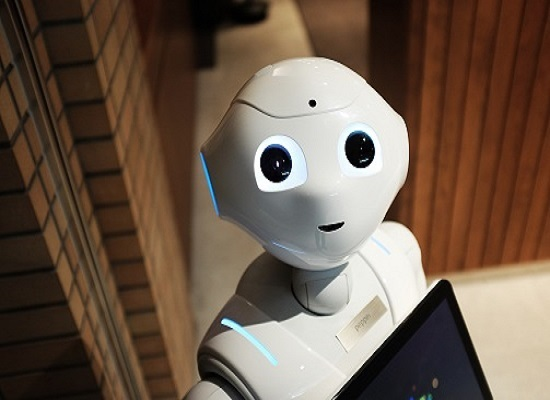
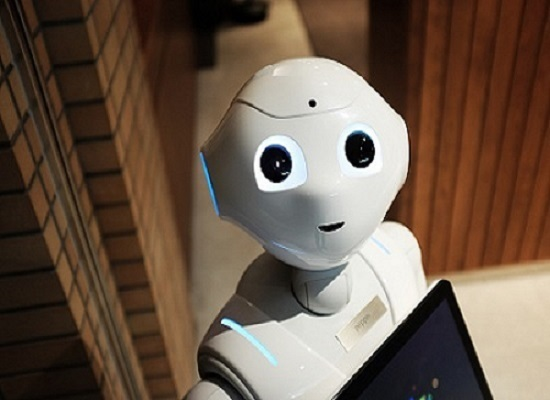
In this section, I predominantly focused on selecting new images and changing their sizes. After changing their sizes, I worked on the machine learning page, creating a basic bootstrap grid column to add relevant images later on
In this section, I predominantly focused on selecting new images and changing their sizes. After changing their sizes, I worked on the machine learning page, creating a basic bootstrap grid column to add relevant images later on

diff --git a/machineLearning.html b/machineLearning.html
@@ -21,7 +21,6 @@
 
 <body>
     <header id="machine-header-section">
-        <!--        <div class="hero-overlay"></div>-->
         <div class="container-fluid">
             <nav class="navbar navbar-expand-lg navbar-dark">
                 <a class="navbar-brand" href="index.html"><img src="./assets/Images/logo-design2.png" alt="Logo Design"></a>
@@ -50,12 +49,12 @@
 
 
         <div class="wrapper">
-            <div class="index-title">
-                <h1>DATA <span class="text-highlight">SCIENCE</span></h1>
+            <div class="machine-title header-styling">
+                <h1>MACHINE <span class="text-highlight">LEARNING</span></h1>
             </div>
 
             <div class="index-sub-title">
-                <h3>Data Scientist: The Sexiest Job of the 21st Century. <br> Thomas H. Davenport and D.J. Patil, 2012.</h3>
+                <h3>Machine Learning: The Scientific Study of Algorithms and Statistical Models</h3>
             </div>
 
             <div class="down-arrow-icon">
@@ -65,6 +64,120 @@
         </div>
 
     </header>
+
+    <div class="container" style="margin:40px;">
+        <div class="row">
+            <div class="col-md-6 col-sm-6" style="background-color:gray; padding:20px;">
+                <p>
+                    Envelope icon as a link:
+                    <a href="#"><span class="glyphicon glyphicon-envelope"></span></a>
+                </p>
+            </div>
+            <div class="col-md-6 col-sm-6" style="background-color:lightblue; padding:20px;">
+                <p>Search icon: <span class="glyphicon glyphicon-search"></span></p>
+            </div>
+        </div>
+        <!--
+            <div class="col-md-4 col-sm-6" style="background-color:lightpink; padding:20px;">
+                <p>
+                    Search icon on a button:
+                    <button type="button" class="btn btn-default">
+                        <span class="glyphicon glyphicon-search"></span> Search
+                    </button>
+                </p>
+            </div>
+-->
+        <div class="row">
+            <div class="col-md-12 col-sm-12" style="background-color:cyan; padding:20px;">
+                <p>
+                    Search icon on a styled button:
+                    <button type="button" class="btn btn-info">
+                        <span class="glyphicon glyphicon-search"></span> Search
+                    </button>
+                </p>
+            </div>
+
+            -->
+
+        </div>
+
+
+        <div class="row">
+            <div class="col-md-6 col-sm-6" style="background-color:gray; padding:20px;">
+                <p>
+                    Envelope icon as a link:
+                    <a href="#"><span class="glyphicon glyphicon-envelope"></span></a>
+                </p>
+            </div>
+            <div class="col-md-6 col-sm-6" style="background-color:lightblue; padding:20px;">
+                <p>Search icon: <span class="glyphicon glyphicon-search"></span></p>
+            </div>
+        </div>
+
+
+
+        <div class="row">
+            <div class="col-md-12 col-sm-12" style="background-color:cyan; padding:20px;">
+                <p>
+                    Search icon on a styled button:
+                    <button type="button" class="btn btn-info">
+                        <span class="glyphicon glyphicon-search"></span> Search
+                    </button>
+                </p>
+            </div>
+
+            -->
+
+        </div>
+    </div>
+
+
+    <!--
+    <div class="container" style="margin:40px;">
+        <div class="row">
+            <div class="col-md-3 col-sm-6" style="background-color:gray; padding:20px; margin: 10px;">
+                <p>
+                    Envelope icon as a link:
+                    <a href="#"><span class="glyphicon glyphicon-envelope"></span></a>
+                </p>
+            </div>
+            <div class="col-md-3 col-sm-6" style="background-color:lightblue; padding:20px; margin: 10px;">
+                <p>Search icon: <span class="glyphicon glyphicon-search"></span></p>
+            </div>
+            <div class="col-md-3 col-sm-6" style="background-color:lightpink; padding:20px; margin: 10px;">
+                <p>
+                    Search icon on a button:
+                    <button type="button" class="btn btn-default">
+                        <span class="glyphicon glyphicon-search"></span> Search
+                    </button>
+                </p>
+            </div>
+
+
+
+            <div class="col-md-3 col-sm-6" style="background-color:cyan; padding:20px; margin: 10px;">
+                <p>
+                    Search icon on a styled button:
+                    <button type="button" class="btn btn-info">
+                        <span class="glyphicon glyphicon-search"></span> Search
+                    </button>
+                </p>
+            </div>
+            <div class="col-md-3 col-sm-6" style="background-color:lightcoral; padding:20px; margin: 10px;">
+                <p>Print icon: <span class="glyphicon glyphicon-print"></span></p>
+            </div>
+            <div class="col-md-3 col-sm-6" style="background-color: lightseagreen; padding:20px; margin: 10px;">
+                <p>
+                    Print icon on a styled link button:
+                    <a href="#" class="btn btn-success btn-lg">
+                        <span class="glyphicon glyphicon-print"></span> Print
+                    </a>
+                </p>
+            </div>
+        </div>
+    </div>-->
+
+
 
 </body>
 

diff --git a/assets/CSS/main.css b/assets/CSS/main.css
@@ -1,24 +1,22 @@
-/*
 .wrapper {
     max-width: 1920px;
     width: 100%;
     margin: auto;
     overflow: hidden;
 }
-*/
 
 html {
     scroll-behavior: smooth;
 }
 
 body {
-    background-color: #9398b5 !important;
+    background-color: #29648a !important;
 }
 
 /*************** INDEX PAGE STARTS HERE ****************/
 
+/**** Navigation Section ****/
 .navbar {
-    /* background-color: lightblue; */
     padding-bottom: 0 !important;
 }
 
@@ -42,47 +40,6 @@ body {
     font-size: 20px;
 }
 
-#index-header-section {
-    background-image: url(../Images/index-img.jpg);
-    background-repeat: no-repeat;
-    background-position: center;
-    background-size: cover;
-    background-attachment: fixed;
-    position: relative;
-    top: 0px;
-    bottom: 0px;
-
-    height: 100vh;
-}
-
-.hero-overlay {
-    position: absolute;
-    background-color: rgba(0, 0, 0, 0.5);
-    top: 0;
-    bottom: 0;
-    height: 100%;
-    width: 100%;
-    z-index: -10;
-}
-
-.index-title {
-    margin-top: 114px;
-}
-
-.index-title h1 {
-    color: #e7f0f9;
-    text-align: center;
-    font-family: 'Lora', serif;
-    font-weight: 900;
-
-}
-
-
-.down-arrow-icon {
-    text-align: center;
-    font-size: 24px;
-}
-
 .nav-button {
     color: #fff !important;
     /* background-color: #007bff; */
@@ -98,6 +55,70 @@ body {
 }
 
 
+/**** Header Section ****/
+#index-header-section {
+    background-image: url(../Images/index-img.jpg);
+    background-repeat: no-repeat;
+    background-position: center;
+    background-size: cover;
+    background-attachment: fixed;
+    position: relative;
+    top: 0px;
+    bottom: 0px;
+
+    height: 100vh;
+}
+
+.header-styling {
+    margin-top: 114px;
+}
+
+.header-styling h1 {
+    color: #e7f0f9;
+    text-align: center;
+    font-family: 'Lora', serif;
+    font-weight: 900;
+    position: relative;
+    bottom: 64px;
+}
+
+.header-styling .text-highlight {
+    color: #6666FF;
+    text-shadow: 7px 11px 4px black, 0 0 41px blue, 0 0 18px darkblue;
+}
+
+.hero-overlay {
+    position: absolute;
+    background-color: rgba(0, 0, 0, 0.5);
+    top: 0;
+    bottom: 0;
+    height: 100%;
+    width: 100%;
+    z-index: -10;
+}
+
+/*
+.index-title {
+    margin-top: 114px;
+}
+
+.index-title h1 {
+    color: #e7f0f9;
+    text-align: center;
+    font-family: 'Lora', serif;
+    font-weight: 900;
+
+}
+*/
+
+
+.down-arrow-icon {
+    text-align: center;
+    font-size: 24px;
+    position: relative;
+    bottom: 64px;
+}
+
 
 .index-sub-title h3 {
     color: #e7f0f9;
@@ -105,12 +126,19 @@ body {
     padding: 30px;
     line-height: 1.5;
     font-family: 'Lora', serif;
+    position: relative;
+    bottom: 64px;
 }
 
+/*
 .text-highlight {
     color: #6666FF;
     text-shadow: 7px 11px 4px black, 0 0 41px blue, 0 0 18px darkblue
 }
+*/
+
+
+/****** T-Blocks Section *****/
 
 #t-blocks .img-responsive {
     width: 100%;
@@ -167,6 +195,7 @@ body {
 }
 
 
+/****** Video Embed Section ******/
 #video-embed-1 .video-title {
     text-align: center;
     font-family: 'Lora', serif;
@@ -203,17 +232,8 @@ body {
     text-shadow: 11px 13px 11px black, 0 0 13px blue, 0 0 13px darkblue;
 }
 
-/*
-.title {
-    position: absolute;
-    top: 31%;
-    text-align: center;
-    left: 50%;
-    margin: 0 auto;
-    transform: translate(-50%, -50%);
-}
-*/
 
+/****** Second Background Image Section *****/
 #second-background-img {
     background-image: url(../Images/second-back-img3.jpg);
     background-position: center;
@@ -222,6 +242,8 @@ body {
     background-size: cover;
     height: 70vh;
 }
+
+/***** Footer Section ******/
 
 #footer-section {
     background-color: #263c86;

diff --git a/index.html b/index.html
@@ -22,7 +22,6 @@
 <body>
 
     <header id="index-header-section">
-        <!--        <div class="hero-overlay"></div>-->
         <div class="container-fluid">
             <nav class="navbar navbar-expand-lg navbar-dark">
                 <a class="navbar-brand" href="index.html"><img src="./assets/Images/logo-design2.png" alt="Logo Design"></a>
@@ -51,7 +50,7 @@
 
 
         <div class="wrapper">
-            <div class="index-title">
+            <div class="index-title header-styling">
                 <h1>DATA <span class="text-highlight">SCIENCE</span></h1>
             </div>
 
@@ -81,16 +80,7 @@
                         <img src="./assets/Images/robotImg_xs.jpg" alt="Floriade" class="img-responsive">
                     </picture>
 
-                    <!--
-                    <div class="overlay">
-                        <div class="title">
-                            <h3>MACHINE LEARNING</h3>
-                            <p>
-                                Machine learning is an application of artificial intelligence (AI) that provides systems the ability to automatically learn and improve from experience without being explicitly programmed. Machine learning focuses on the development of computer programs that can access data and use it learn for themselves.
-                            </p>
-                        </div>
-                    </div>
--->
+
                 </div>
                 <div class="col-md-4 col-sm-6" style="padding: 0px;">
                     <picture>
